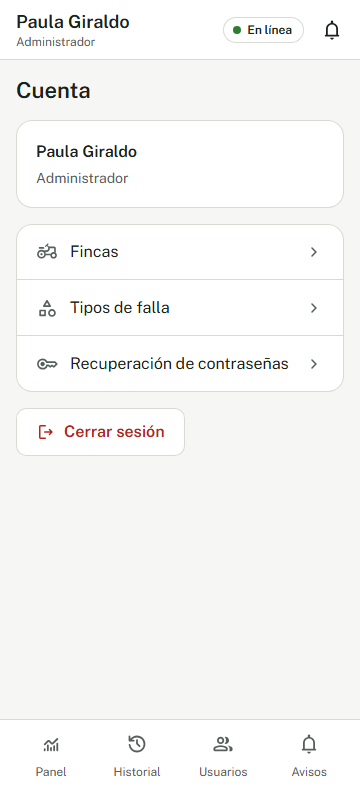
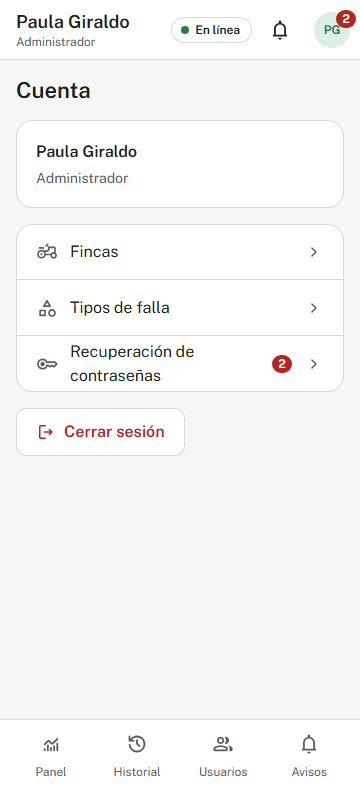
fix(RF-01): el director y el administrador abren «Cuenta» en el teléfono
En el teléfono, la barra inferior del director y la del administrador
no traen «Cuenta», ni en Figma ni en la Tabla 10 del SDD. Sin ella no
tenían cómo cerrar la sesión ni, el administrador, cómo llegar a
Fincas, Tipos de falla y Recuperación de contraseñas, salvo escribiendo
la dirección.

Ahora esos dos roles llevan en la barra superior del teléfono el avatar
que ya tiene la del escritorio, que abre «Cuenta». Para el
administrador carga además la insignia de las solicitudes de
recuperación pendientes, que en el teléfono solo se veía dentro de
«Cuenta». La barra inferior no cambia, y el reportante y el aprobador,
que ya tienen «Cuenta» ahí, quedan igual.

El equipo dejó la decisión a la implementación (10 oct 2026). Queda en
docs/cambios-sdd.md, entrada 16, y falta reflejarlo en Figma.

Pruebas: seis nuevas con Vitest (1163 y 1 falla esperada). En las de
extremo a extremo, CU-04 y CU-02 llegan ahora a «Cuenta» por el avatar
en lugar de escribir la dirección, y una nueva de CU-01 cierra la
sesión del director desde ahí, en el teléfono: 105 pasan, más las 6 de
preparación. A 360 px caben el título, la conexión, la campana y el
avatar, también sin conexión.

Changed region(s): [[0.1833, 0.4375, 0.825, 0.5], [0.4889, 0.0, 0.825, 0.0625], [0.8556, 0.0, 1.0, 0.0625]]

diff --git a/src/app/Marco.jsx b/src/app/Marco.jsx
@@ -14,7 +14,8 @@ import { useInsignias } from './useInsignias.js'
 
 /*
  * Marco de las pantallas con sesión (SDD 5.2, «Navegación por rol»):
- *   teléfono    barra superior + contenido + barra inferior de cuatro opciones;
+ *   teléfono    barra superior + contenido + barra inferior de cuatro opciones. Si «Cuenta»
+ *               no es una de las cuatro (director y administrador), va en la barra superior;
  *   escritorio  barra lateral con el menú del rol + barra superior con el buscador por
  *               código, el indicador de conexión, los avisos y la cuenta.
  * Figma: 2:43 y 2:137 (teléfono), 3:588 y 3:616 (escritorio).
@@ -56,7 +57,29 @@ function titulosDelTelefono(perfil, ruta) {
   }
 }
 
-function BarraSuperiorDelTelefono({ perfil, enLinea, ruta }) {
+/**
+ * El avatar que abre «Cuenta» desde la barra superior del teléfono, como el del escritorio. Es
+ * para los roles cuya barra inferior no la trae: sin él no tendrían cómo cerrar la sesión ni,
+ * el administrador, cómo llegar a las pantallas que solo caben en «Cuenta». Por eso lleva
+ * también lo que esas pantallas tengan pendiente.
+ */
+function CuentaDelTelefono({ perfil, pendientes }) {
+  return (
+    <Link
+      to="/cuenta"
+      className="relative flex size-12 flex-none items-center justify-center rounded-full"
+    >
+      <Avatar nombre={perfil.nombre} />
+      {/* El nombre del enlace: las iniciales son un adorno, y la insignia agrega lo suyo. */}
+      <span className="sr-only">Cuenta de {perfil.nombre}</span>
+      <span className="absolute top-1 right-0">
+        <Insignia cantidad={pendientes} />
+      </span>
+    </Link>
+  )
+}
+
+function BarraSuperiorDelTelefono({ perfil, enLinea, ruta, cuenta }) {
   const { titulo, subtitulo } = titulosDelTelefono(perfil, ruta)
 
   return (
@@ -77,6 +100,7 @@ function BarraSuperiorDelTelefono({ perfil, enLinea, ruta }) {
       </div>
       <Conexion estado={enLinea ? 'en_linea' : 'sin_conexion'} className="flex-none" />
       <Campana />
+      {cuenta}
     </header>
   )
 }
@@ -229,6 +253,13 @@ export default function Marco({ enfocado = false, sinBarraSuperior = false }) {
   const { pathname: ruta, state } = useLocation()
   const items = MENU[perfil.rol_id] ?? []
   const insignias = useInsignias(perfil.rol_id)
+  const enLaBarraInferior = items.filter((item) => !item.soloEscritorio)
+  // Figma no le da «Cuenta» a la barra inferior del director ni a la del administrador.
+  const cuentaEnLaBarraSuperior = !enLaBarraInferior.some((item) => item.ruta === '/cuenta')
+  // Lo pendiente en las pantallas que el teléfono solo ofrece dentro de «Cuenta».
+  const pendientesEnCuenta = items
+    .filter((item) => item.soloEscritorio)
+    .reduce((suma, item) => suma + (insignias[item.ruta] ?? 0), 0)
   // En el detalle de una novedad, el menú deja marcada la pantalla desde la que se abrió.
   const origen = ruta.startsWith('/novedades/')
     ? rutaDeOrigen(state, perfil.rol_id).split('?')[0]
@@ -255,7 +286,16 @@ export default function Marco({ enfocado = false, sinBarraSuperior = false }) {
 
       <div className="flex min-w-0 flex-1 flex-col">
         {enfocado || sinBarraSuperior ? null : (
-          <BarraSuperiorDelTelefono perfil={perfil} enLinea={enLinea} ruta={ruta} />
+          <BarraSuperiorDelTelefono
+            perfil={perfil}
+            enLinea={enLinea}
+            ruta={ruta}
+            cuenta={
+              cuentaEnLaBarraSuperior ? (
+                <CuentaDelTelefono perfil={perfil} pendientes={pendientesEnCuenta} />
+              ) : null
+            }
+          />
         )}
         <BarraSuperiorDelEscritorio perfil={perfil} enLinea={enLinea} />
 
@@ -265,12 +305,7 @@ export default function Marco({ enfocado = false, sinBarraSuperior = false }) {
           <Outlet context={{ insignias }} />
         </main>
 
-        {enfocado ? null : (
-          <NavegacionInferior
-            items={items.filter((item) => !item.soloEscritorio)}
-            origen={origen}
-          />
-        )}
+        {enfocado ? null : <NavegacionInferior items={enLaBarraInferior} origen={origen} />}
       </div>
     </div>
   )

diff --git a/src/app/Rutas.test.jsx b/src/app/Rutas.test.jsx
@@ -291,6 +291,74 @@ describe('Rutas y guardián de rol (RF-01 / CU-01, SDD 6.1.11)', () => {
     expect(screen.getAllByRole('navigation', { name: 'Principal' })).toHaveLength(2)
   })
 
+  describe('«Cuenta» en el teléfono (RF-01 / CU-01 5)', () => {
+    /** La barra superior del teléfono: va antes que la del escritorio. */
+    const barraDelTelefono = async () => within((await screen.findAllByRole('banner'))[0])
+    const barraInferior = async () =>
+      within((await screen.findAllByRole('navigation', { name: 'Principal' }))[1])
+
+    afterEach(() => {
+      vi.mocked(contarSolicitudesPendientes).mockResolvedValue(0)
+    })
+
+    it.each([
+      ['director', '/escaladas', 'Director de prueba'],
+      ['administrador', '/usuarios', 'Administrador de prueba'],
+    ])(
+      'el %s no tiene «Cuenta» en la barra inferior: la abre desde su avatar de la barra superior, y ahí cierra la sesión',
+      async (rol, inicio, nombre) => {
+        abrir(inicio, rol)
+
+        expect((await barraInferior()).queryByRole('link', { name: 'Cuenta' })).toBeNull()
+        const avatar = (await barraDelTelefono()).getByRole('link', { name: `Cuenta de ${nombre}` })
+        expect(avatar).toHaveAttribute('href', '/cuenta')
+
+        await userEvent.click(avatar)
+
+        expect(await screen.findByRole('heading', { level: 1, name: 'Cuenta' })).toBeVisible()
+        // El de la página: la barra lateral del escritorio tiene otro, de solo ícono.
+        expect(
+          within(screen.getByRole('main')).getByRole('button', { name: 'Cerrar sesión' }),
+        ).toBeVisible()
+      },
+    )
+
+    it.each([
+      ['reportante', '/novedades'],
+      ['aprobador', '/bandeja'],
+    ])(
+      'el %s ya tiene «Cuenta» en la barra inferior: su barra superior no la repite',
+      async (rol, inicio) => {
+        abrir(inicio, rol)
+
+        expect((await barraInferior()).getByRole('link', { name: 'Cuenta' })).toBeVisible()
+        expect((await barraDelTelefono()).queryByRole('link', { name: /^Cuenta de/ })).toBeNull()
+      },
+    )
+
+    it('RF-02: el avatar del administrador avisa de las solicitudes que esperan un código', async () => {
+      vi.mocked(contarSolicitudesPendientes).mockResolvedValue(2)
+      abrir('/usuarios', 'administrador')
+
+      expect(
+        await (
+          await barraDelTelefono()
+        ).findByRole('link', {
+          name: 'Cuenta de Administrador de prueba, 2 solicitudes pendientes',
+        }),
+      ).toBeVisible()
+    })
+
+    it('RF-02: sin solicitudes, el avatar no lleva insignia', async () => {
+      abrir('/usuarios', 'administrador')
+
+      const avatar = (await barraDelTelefono()).getByRole('link', {
+        name: 'Cuenta de Administrador de prueba',
+      })
+      expect(avatar).not.toHaveTextContent(/pendiente/)
+    })
+  })
+
   it('RF-23: el indicador de conexión está siempre a la vista', async () => {
     abrir('/novedades', 'reportante')
 

diff --git a/e2e/cu-01-iniciar-sesion.spec.js b/e2e/cu-01-iniciar-sesion.spec.js
@@ -1,5 +1,7 @@
 import { expect, test } from '@playwright/test'
+import { enTelefono } from './apoyo/novedades.js'
 import {
+  abrirCuentaDesdeElAvatar,
   HAY_CLAVE,
   ingresarComo,
   ingresarPorElFormulario,
@@ -107,6 +109,24 @@ test.describe('CU-01 · Iniciar y cerrar sesión', () => {
 
       await expect(page).toHaveURL(/\/ingresar$/)
       await page.goto('/novedades')
+      await expect(page).toHaveURL(/\/ingresar$/)
+    })
+
+    test('RF-01 / CU-01 5 y 6: en el teléfono, el director cierra la sesión desde su avatar, porque «Cuenta» no está en su barra inferior', async ({
+      page,
+    }) => {
+      test.skip(!enTelefono(page), 'En el escritorio la cuenta ya va en la barra superior.')
+      // Con una sesión propia: al cerrarla no se le quita a las demás pruebas.
+      await ingresarPorElFormulario(page, 'director')
+      await expect(menuVisible(page).getByRole('link', { name: 'Cuenta' })).toHaveCount(0)
+
+      await abrirCuentaDesdeElAvatar(page)
+      const cuenta = page.getByRole('main')
+      await expect(cuenta.getByText(USUARIOS.director.nombre)).toBeVisible(ESPERA_DE_AUTH)
+      await cuenta.getByRole('button', { name: 'Cerrar sesión' }).click()
+
+      await expect(page).toHaveURL(/\/ingresar$/)
+      await page.goto('/escaladas')
       await expect(page).toHaveURL(/\/ingresar$/)
     })
   })

diff --git a/e2e/cu-04-gestionar-fincas.spec.js b/e2e/cu-04-gestionar-fincas.spec.js
@@ -1,6 +1,7 @@
 import { expect, test } from '@playwright/test'
 import { enTelefono } from './apoyo/novedades.js'
 import {
+  abrirCuentaDesdeElAvatar,
   HAY_CLAVE,
   ingresarComo,
   leerDeLaApi,
@@ -28,8 +29,9 @@ test.describe('CU-04 · Gestionar fincas', () => {
   async function abrirFincas(page) {
     await ingresarComo(page, 'administrador')
     if (enTelefono(page)) {
-      // En el teléfono no cabe en la barra inferior: se llega desde «Cuenta».
-      await page.goto('/cuenta')
+      // En el teléfono no cabe en la barra inferior: se llega desde «Cuenta», que el
+      // administrador abre con su avatar.
+      await abrirCuentaDesdeElAvatar(page)
       await page
         .getByRole('navigation', { name: 'Administración' })
         .getByRole('link', { name: 'Fincas' })

diff --git a/e2e/apoyo/usuarios.js b/e2e/apoyo/usuarios.js
@@ -300,3 +300,18 @@ export async function crearUsuarioDePrueba(page, marca) {
 export async function desactivarUsuarioDePrueba(page, usuarioId) {
   await llamarAFuncion(page, 'gestionar-usuario', { accion: 'desactivar', usuario_id: usuarioId })
 }
+
+/**
+ * En el teléfono, abre «Cuenta» desde el avatar de la barra superior. Es por donde entran el
+ * director y el administrador: su barra inferior no la trae.
+ *
+ * @param {import('@playwright/test').Page} page
+ */
+export async function abrirCuentaDesdeElAvatar(page) {
+  await page
+    .getByRole('banner')
+    .filter({ visible: true })
+    .getByRole('link', { name: /^Cuenta de / })
+    .click({ timeout: 20_000 })
+  await page.waitForURL('**/cuenta')
+}

diff --git a/e2e/cu-02-recuperar-contrasena.spec.js b/e2e/cu-02-recuperar-contrasena.spec.js
@@ -2,6 +2,7 @@ import { randomInt } from 'node:crypto'
 import { expect, test } from '@playwright/test'
 import { enTelefono } from './apoyo/novedades.js'
 import {
+  abrirCuentaDesdeElAvatar,
   crearUsuarioDePrueba,
   desactivarUsuarioDePrueba,
   HAY_CLAVE,
@@ -75,7 +76,7 @@ const solicitudesDe = (page, usuarioId) =>
 /** El administrador abre la pantalla 32 por donde la tiene: el menú o, en el teléfono, «Cuenta». */
 async function abrirRecuperaciones(page) {
   if (enTelefono(page)) {
-    await page.goto('/cuenta')
+    await abrirCuentaDesdeElAvatar(page)
     await page
       .getByRole('navigation', { name: 'Administración' })
       .getByRole('link', { name: /^Recuperación de contraseñas/ })

diff --git a/docs/cambios-sdd.md b/docs/cambios-sdd.md
@@ -21,6 +21,7 @@ actualicen los documentos (lo exige la Definition of Done).
 | 13  | S3     | SDD 5.3.2 (Tabla 20) y 6.1.1 (vistas)       | Complemento: vista `v_finca`, con las novedades abiertas y los reportantes activos de cada finca                                              | Propuesto |
 | 14  | S3     | SDD 5.3.1 (Tabla 19), 6.1.10 y Tabla 10     | Complemento: el perfil se relee con la sesión viva. Precisión de `gestionar-usuario`. Temporal: el administrador entra a «Usuarios»           | Propuesto |
 | 15  | S3     | SDD 6.1.1 (Tabla 26), 6.1.10 y 7.3          | **Cambio:** `intentos_fallidos` y un índice único en `solicitud_recuperacion`. Precisión del código temporal y de los estados de la solicitud | Propuesto |
+| 16  | S3     | SDD 5.2 («Navegación por rol») y Tabla 10   | Complemento: en el teléfono, el director y el administrador abren «Cuenta» desde un avatar en la barra superior                               | Propuesto |
 
 ## 1 · Service worker sin librerías de Workbox (S0)
 
@@ -495,3 +496,27 @@ minutos.
 **Texto propuesto (7.3, fila nueva):**
 
 > Intentos fallidos por código temporal · 5 · Al alcanzarlo, el código deja de servir.
+
+## 16 · «Cuenta» en el teléfono del director y del administrador (S3)
+
+**Sección:** SDD 5.2, «Navegación por rol», y Tabla 10 (menú de cada rol).
+
+**Qué pasa.** En el teléfono la navegación es una barra inferior de cuatro opciones. La del
+reportante y la del aprobador traen «Cuenta». La del director (Escaladas, Historial, Panel y
+Avisos) y la del administrador (Panel, Historial, Usuarios y Avisos) no, ni en la Tabla 10 ni en
+Figma (pantalla 20-C). «Cuenta» es donde se cierra la sesión (CU-01, pasos 5 y 6) y, para el
+administrador, por donde se llega en el teléfono a Fincas, Tipos de falla y Recuperación de
+contraseñas, que no caben en la barra. Sin una entrada, esos dos roles solo llegaban escribiendo
+la dirección.
+
+**Qué se hizo (complemento).** En el teléfono, la barra superior de esos dos roles lleva el avatar
+con las iniciales que ya tiene la del escritorio, y abre «Cuenta». La barra inferior no cambia:
+siguen siendo las cuatro opciones de la Tabla 10. Para el administrador, el avatar carga la
+insignia de las solicitudes de recuperación que esperan un código, que en el teléfono solo se veía
+dentro de «Cuenta». El equipo dejó esta decisión a la implementación (10 oct 2026).
+
+**Texto propuesto (5.2, «Navegación por rol», después de la barra inferior):**
+
+> Cuando «Cuenta» no es una de las cuatro opciones de la barra inferior (director de agricultura y
+> administrador), la barra superior del teléfono incluye el avatar del usuario, que la abre, igual
+> que en el escritorio.

diff --git a/docs/decisiones-pendientes.md b/docs/decisiones-pendientes.md
@@ -934,11 +934,14 @@ plan del Sprint 3:
 
 **Para decidir:**
 
-- **El administrador no tiene «Cuenta» en la barra del teléfono.** Su barra inferior trae Panel,
-  Historial, Usuarios y Avisos (SDD, Tabla 10); a «Cuenta», y desde ahí a Fincas, Tipos de falla
-  y Recuperación de contraseñas, llega solo por la dirección. En el escritorio no pasa. Viene del
-  Sprint 1 (el menú de RF-01) y se notó al probar 30 y 32 en el teléfono: falta decidir por dónde entra (por ejemplo,
-  el nombre de la barra superior).
+- **«Cuenta» en el teléfono del director y del administrador: resuelto el 10 oct 2026.** Su
+  barra inferior no la trae, ni en Figma ni en la Tabla 10 (Escaladas, Historial, Panel y Avisos;
+  Panel, Historial, Usuarios y Avisos), así que no tenían cómo cerrar la sesión ni, el
+  administrador, cómo llegar a Fincas, Tipos de falla y Recuperación de contraseñas, salvo
+  escribiendo la dirección. El equipo dejó la decisión a la implementación: en el teléfono, esos
+  dos roles llevan en la barra superior el avatar que ya tiene el escritorio, que abre «Cuenta» y,
+  para el administrador, carga la insignia de las solicitudes pendientes. La barra inferior no
+  cambia (`docs/cambios-sdd.md`, entrada 16). **Falta reflejarlo en Figma.**
 - **Quién limita las solicitudes.** `solicitar_recuperacion` se ejecuta sin sesión. Solo puede
   dejar una solicitud abierta por usuario, así que no llena la tabla, pero alguien que conozca
   los correos puede hacer que el administrador vea solicitudes que nadie pidió. Por eso el diálogo
